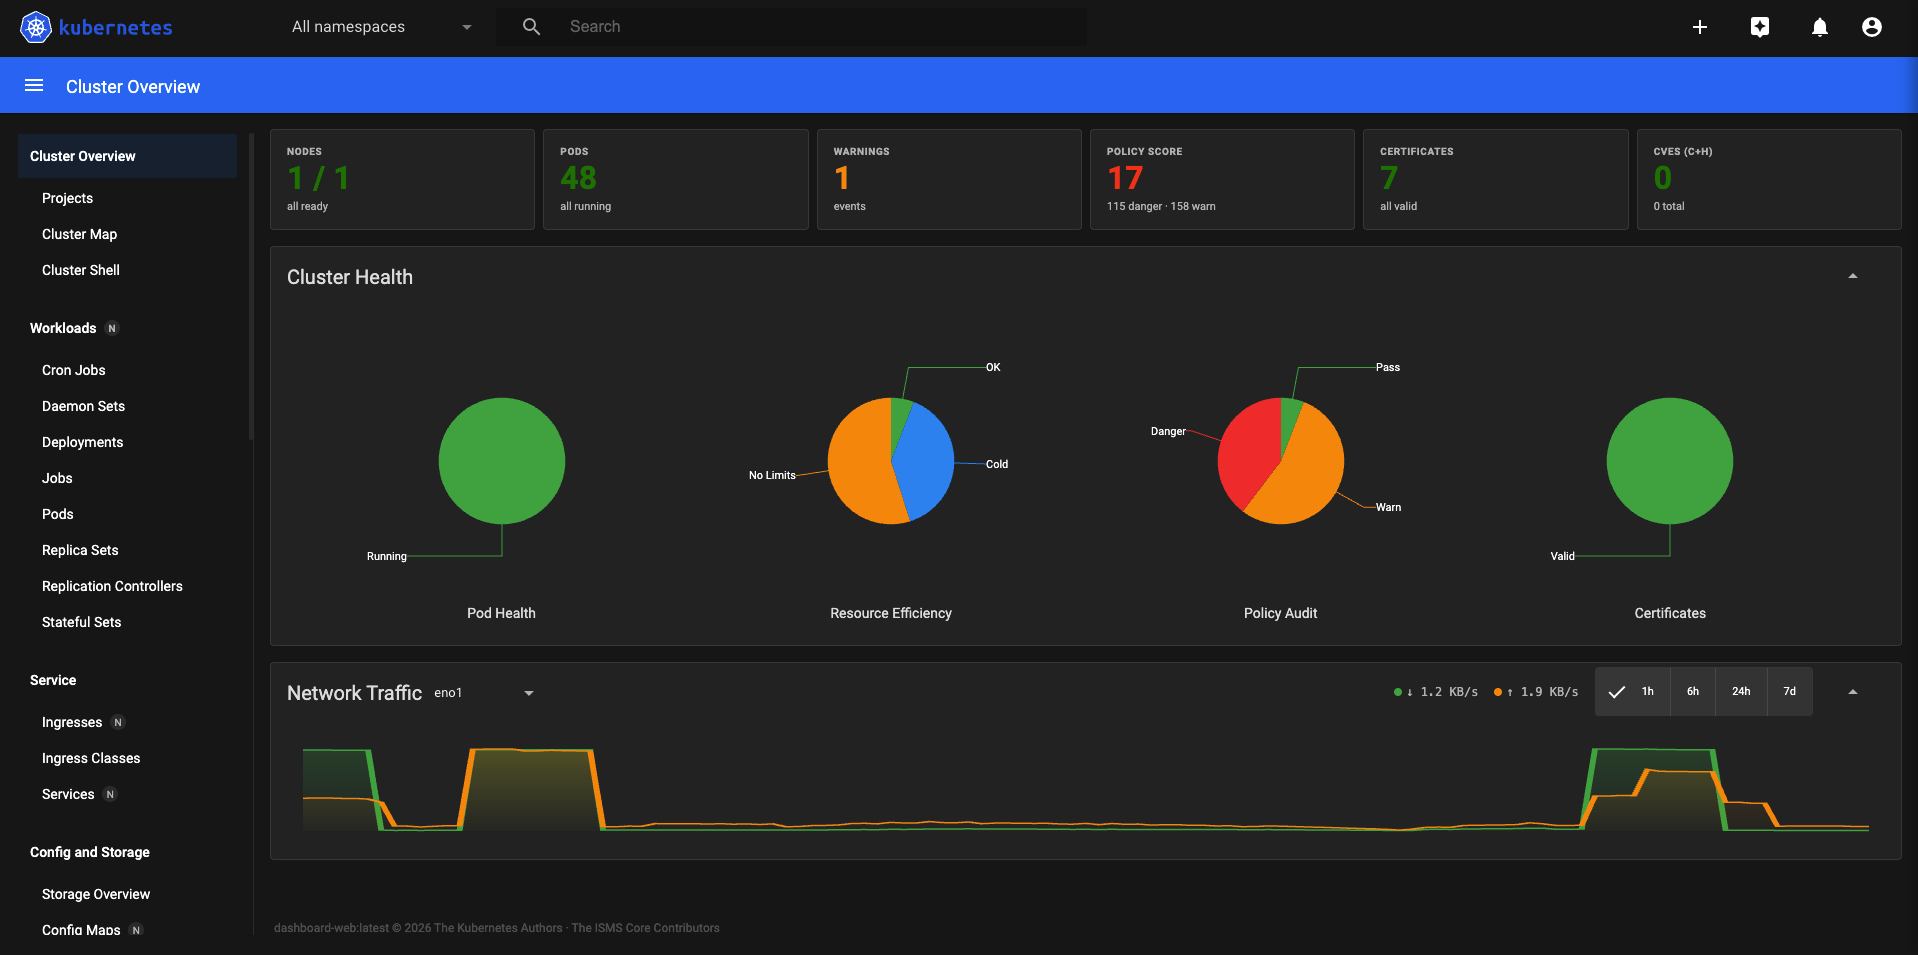
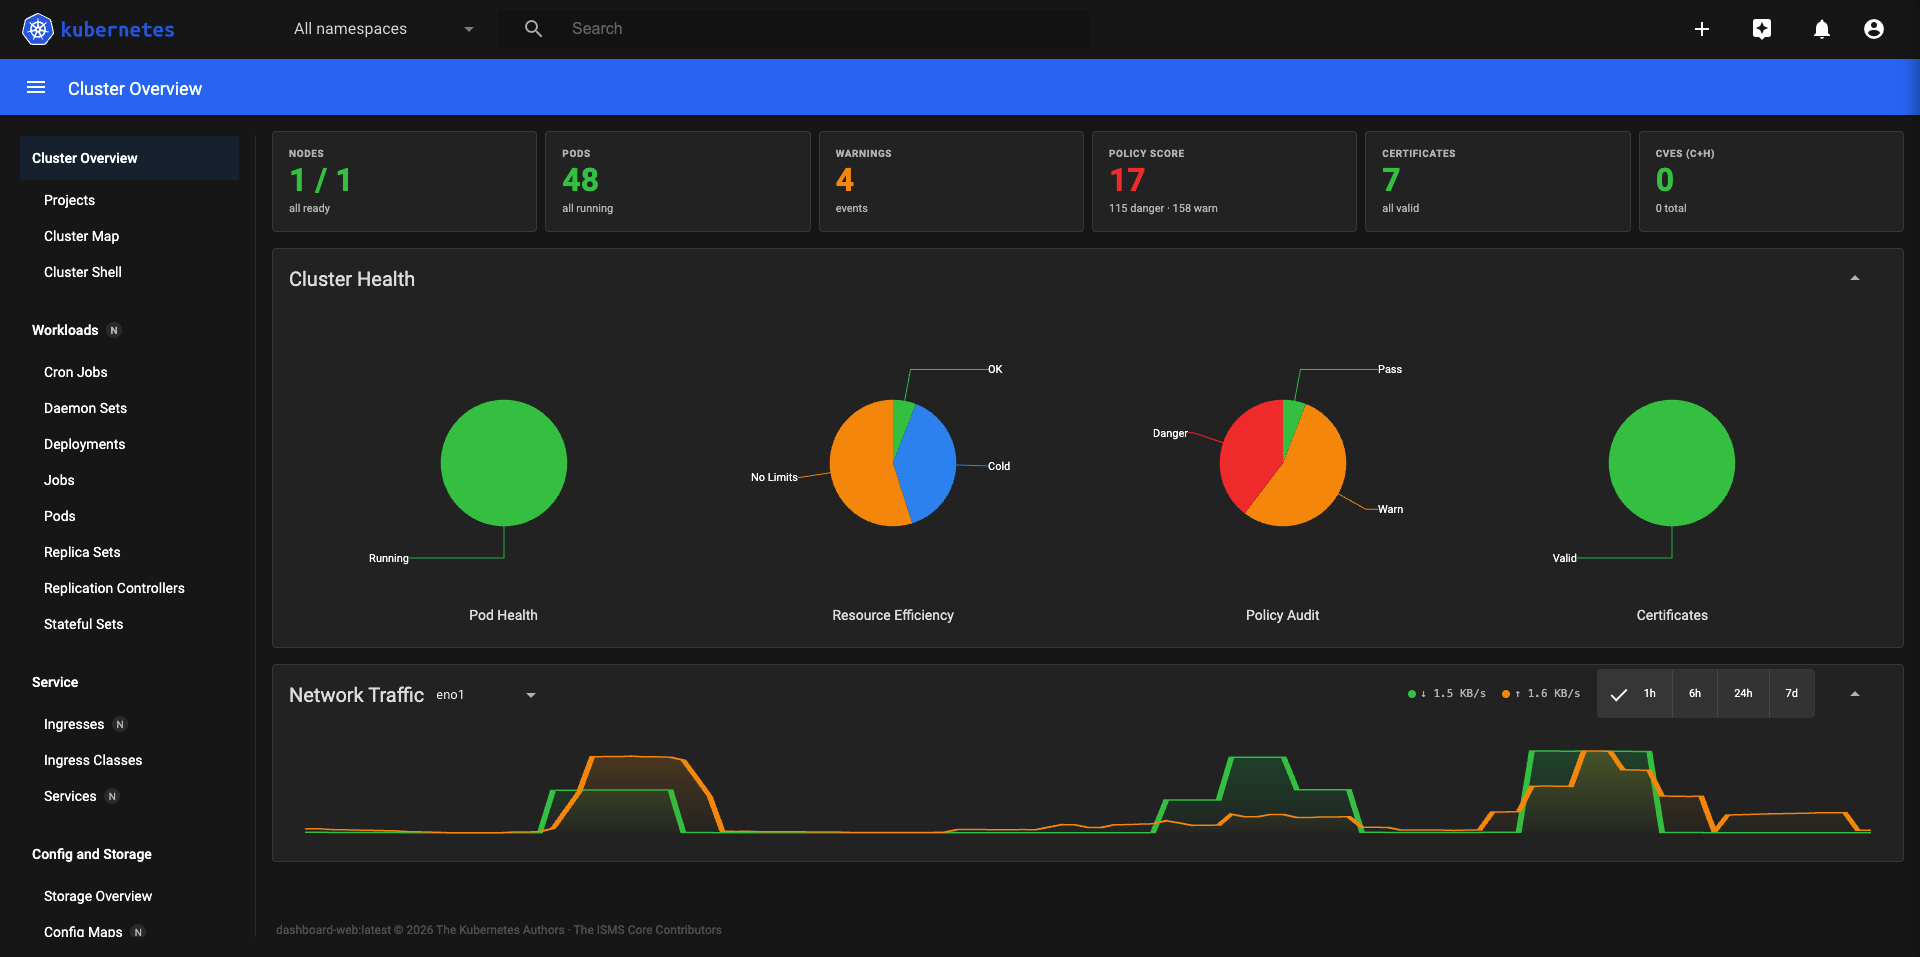
update: Manifests after OWASP check + Screenshots

diff --git a/README.md b/README.md
@@ -6,32 +6,28 @@ The original [kubernetes/dashboard](https://github.com/kubernetes-retired/dashbo
 
 We took up the challenge.
 
-The Go API backend was solid and worth keeping. The Angular WebUI was Angular 16 — already one major version behind at archive time, and drifting further every month. Rather than let it rot, we forked it and got to work.
+The Go API backend was solid and worth keeping. The Angular WebUI was Angular 16 — already one major version behind at archive time, and drifting further every month. Rather than let it rot, we forked it and upgraded it the right way: stepping through every Angular major version one at a time — 16 → 17 → 18 → 19 → 20 → 21 — fixing all 44 catalogued breaking changes along the way. See [ANGULAR-UPGRADE.md](ANGULAR-UPGRADE.md) for the full story.
 
-**First attempt:** jump the Angular WebUI straight from v16 to v21. That failed — four compounding blockers mean a direct jump is impossible (abandoned flex-layout, deleted SCSS entrypoints, a builder that no longer exists). So we built a **React + Material UI** WebUI from scratch on the same Go backend, shipping something production-ready while we worked out the proper incremental upgrade path.
-
-**Second attempt:** step through every Angular major version one at a time — 16 → 17 → 18 → 19 → 20 → 21 — fixing all 44 catalogued breaking changes along the way. That worked. See [ANGULAR-UPGRADE.md](ANGULAR-UPGRADE.md) for the full story.
+During the upgrade we also built a **React + Material UI** WebUI from scratch on the same Go backend, shipping a production-ready alternative for teams that prefer React.
 
 The result is two production-grade WebUI flavors on a shared Go backend, both actively maintained.
-
-Two WebUI flavors — deploy the one that fits your stack.
 
 ---
 
 ## Flavors
 
-| | React + Material UI | Angular + Angular Material |
+| | Angular + Angular Material | React + Material UI |
 |---|---|---|
-| **Framework** | React 19, MUI v6 | Angular 21, Angular Material |
+| **Framework** | Angular 21, Angular Material | React 19, MUI v6 |
 | **Namespace** | `kubernetes-dashboard` | `kubernetes-dashboard` |
-| **Web image** | `dashboard-web-react-mui-latest` | `dashboard-web-angular-latest` |
-| **Manifests** | `manifests_webui_react+mui/manifests/` | `manifests_webui_angular/manifests/` |
-| **Deploy guide** | [DEPLOY-REACT.md](DEPLOY-REACT.md) | [DEPLOY-ANGULAR.md](DEPLOY-ANGULAR.md) |
+| **Web image** | `dashboard-web-angular-latest` | `dashboard-web-react-mui-latest` |
+| **Manifests** | `manifests_webui_angular/manifests/` | `manifests_webui_react+mui/manifests/` |
+| **Deploy guide** | [DEPLOY-ANGULAR.md](DEPLOY-ANGULAR.md) | [DEPLOY-REACT.md](DEPLOY-REACT.md) |
 | **Cert Manager UI** | ✅ | ✅ |
 | **MetalLB UI** | ✅ | ✅ |
 | **Pod Security / Network** | ✅ | ✅ |
 
-Both flavors use the same Go images: `dashboard-api`, `dashboard-auth`, `dashboard-metrics-scraper`, and Kong 3.6. All images pull from `ghcr.io/isms-core-project/kubernetes-dashboard`.
+Both flavors use the same Go images: `dashboard-api`, `dashboard-auth`, `dashboard-metrics-scraper`, and Kong 3.9.1. All images pull from `ghcr.io/isms-core-project/kubernetes-dashboard`.
 
 ---
 
@@ -49,87 +45,10 @@ Both flavors use the same Go images: `dashboard-api`, `dashboard-auth`, `dashboa
 - **Event Timeline** — live event feed with time-bucket grouping and warning highlight
 - **Registry Manager** — docker pull secrets cross-referenced with pod `imagePullSecrets`
 - **Historical Metrics** — pod CPU/memory sparklines with 1h/6h/24h/7d selector (VictoriaMetrics or Prometheus)
-- **Cluster Shell** — interactive xterm.js terminal exec'd into the dashboard pod; kubectl runs as the user's JWT *(React+MUI only)*
-- **AI Assistant** — Claude Sonnet via SSE streaming; pod spec and events auto-injected from detail pages *(React+MUI only)*
 - **Event Alerts** — real-time email on CrashLoop/OOM/ImagePullBackOff/NodeNotReady; configurable per type
 - **Pod Logs** — live streaming, timestamps, severity filter, text filter, download
-
----
-
-## Screenshots — React + Material UI
-
-### Sign In
-![Sign in](screenshots_webui_react+mui/k8s_dashboard_logon.png)
-
-### Overview
-Stat tiles, donut charts, and live Network Traffic graph.
-
-![Overview](screenshots_webui_react+mui/k8s_dashboard_overview.png)
-
-### Workloads
-Full workload list with status, restart count, and inline actions.
-
-![Workloads](screenshots_webui_react+mui/k8s_dashboard_home.png)
-
-### Cluster Map
-Namespace-scoped topology with Error/Warning filter and zoom.
-
-![Cluster map](screenshots_webui_react+mui/k8s_dashboard_map.png)
-
-### Pods
-Live CPU/Memory sparklines, restart count, node assignment, inline actions.
-
-![Pods](screenshots_webui_react+mui/k8s_dashboard_pods.png)
-
-### Policy Audit
-Polaris security scoring per workload — expandable check details.
-
-![Policy audit](screenshots_webui_react+mui/k8s_dashboard_policy_audit.png)
-
-### Resource Efficiency
-CPU/memory request vs limit vs actual — verdict chips, CSV export.
-
-![Resource efficiency](screenshots_webui_react+mui/k8s_dashboard_resource_efficiency.png)
-
-### Certificate Tracker
-TLS secrets: common name, SANs, expiry, status badges.
-
-![Certificate tracker](screenshots_webui_react+mui/k8s_dashboard_cert_tracker.png)
-
-### Event Timeline
-Live event feed with time-bucket grouping and warning highlight.
-
-![Event timeline](screenshots_webui_react+mui/k8s_dashboard_events_timeline.png)
-
-### Application Projects
-Per-namespace project cards with pod health and resource totals.
-
-![Projects](screenshots_webui_react+mui/k8s_dashboard_projects.png)
-
-### Kubescape Security
-Compliance scores and CVE findings — auto-detected when Kubescape Operator is running.
-
-![Kubescape](screenshots_webui_react+mui/k8s_dashboard_kubescape.png)
-
-### VictoriaMetrics Sparklines
-Pod CPU/memory sparklines with 1h/6h/24h/7d selector.
-
-![VictoriaMetrics](screenshots_webui_react+mui/k8s_dashboard_victoriametrics.png)
-
-### PVC Storage Usage
-Live usage bars from the kubelet stats API.
-
-![PVC storage](screenshots_webui_react+mui/k8s_dashboard_pvc.png)
-
-### RBAC Viewer
-All role bindings with resolved rules and wildcard detection.
-
-![RBAC viewer](screenshots_webui_react+mui/k8s_dashboard_rbac_viewer.png)
-
-### Cluster Shell
-Full interactive bash terminal — kubectl runs as the logged-in user.
-
-![Cluster Shell](screenshots_webui_react+mui/k8s_dashboard_shell.png)
+- **Cluster Shell** — interactive xterm.js terminal exec'd into the dashboard pod; kubectl runs as the user's JWT *(React+MUI only)*
+- **AI Assistant** — Claude Sonnet via SSE streaming; pod spec and events auto-injected from detail pages *(React+MUI only)*
 
 ---
 
@@ -230,13 +149,90 @@ Full interactive bash terminal.
 
 ---
 
+## Screenshots — React + Material UI
+
+### Sign In
+![Sign in](screenshots_webui_react+mui/k8s_dashboard_logon.png)
+
+### Overview
+Stat tiles, donut charts, and live Network Traffic graph.
+
+![Overview](screenshots_webui_react+mui/k8s_dashboard_overview.png)
+
+### Workloads
+Full workload list with status, restart count, and inline actions.
+
+![Workloads](screenshots_webui_react+mui/k8s_dashboard_home.png)
+
+### Cluster Map
+Namespace-scoped topology with Error/Warning filter and zoom.
+
+![Cluster map](screenshots_webui_react+mui/k8s_dashboard_map.png)
+
+### Pods
+Live CPU/Memory sparklines, restart count, node assignment, inline actions.
+
+![Pods](screenshots_webui_react+mui/k8s_dashboard_pods.png)
+
+### Policy Audit
+Polaris security scoring per workload — expandable check details.
+
+![Policy audit](screenshots_webui_react+mui/k8s_dashboard_policy_audit.png)
+
+### Resource Efficiency
+CPU/memory request vs limit vs actual — verdict chips, CSV export.
+
+![Resource efficiency](screenshots_webui_react+mui/k8s_dashboard_resource_efficiency.png)
+
+### Certificate Tracker
+TLS secrets: common name, SANs, expiry, status badges.
+
+![Certificate tracker](screenshots_webui_react+mui/k8s_dashboard_cert_tracker.png)
+
+### Event Timeline
+Live event feed with time-bucket grouping and warning highlight.
+
+![Event timeline](screenshots_webui_react+mui/k8s_dashboard_events_timeline.png)
+
+### Application Projects
+Per-namespace project cards with pod health and resource totals.
+
+![Projects](screenshots_webui_react+mui/k8s_dashboard_projects.png)
+
+### Kubescape Security
+Compliance scores and CVE findings — auto-detected when Kubescape Operator is running.
+
+![Kubescape](screenshots_webui_react+mui/k8s_dashboard_kubescape.png)
+
+### VictoriaMetrics Sparklines
+Pod CPU/memory sparklines with 1h/6h/24h/7d selector.
+
+![VictoriaMetrics](screenshots_webui_react+mui/k8s_dashboard_victoriametrics.png)
+
+### PVC Storage Usage
+Live usage bars from the kubelet stats API.
+
+![PVC storage](screenshots_webui_react+mui/k8s_dashboard_pvc.png)
+
+### RBAC Viewer
+All role bindings with resolved rules and wildcard detection.
+
+![RBAC viewer](screenshots_webui_react+mui/k8s_dashboard_rbac_viewer.png)
+
+### Cluster Shell
+Full interactive bash terminal — kubectl runs as the logged-in user.
+
+![Cluster Shell](screenshots_webui_react+mui/k8s_dashboard_shell.png)
+
+---
+
 ## Architecture
 
 Five pods in the dashboard namespace, fronted by a Kong API gateway:
 
 ```
 Browser
-  └── Kong 3.6 (DBless, NodePort :30080)
+  └── Kong 3.9.1 (DBless, NodePort :30080)
         ├── /api/v1/login, /csrftoken, /me   → dashboard-auth
         ├── /api/*                            → dashboard-api
         │     └── sidecar: dashboard-metrics-scraper
@@ -257,8 +253,8 @@ Optional add-ons (all in the same namespace):
 
 See the flavor-specific guide for the full runbook:
 
-- **React + Material UI:** [DEPLOY-REACT.md](DEPLOY-REACT.md)
 - **Angular + Angular Material:** [DEPLOY-ANGULAR.md](DEPLOY-ANGULAR.md)
+- **React + Material UI:** [DEPLOY-REACT.md](DEPLOY-REACT.md)
 
 ---
 